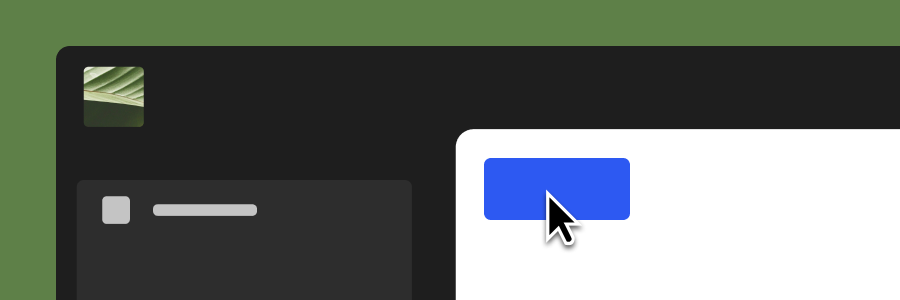
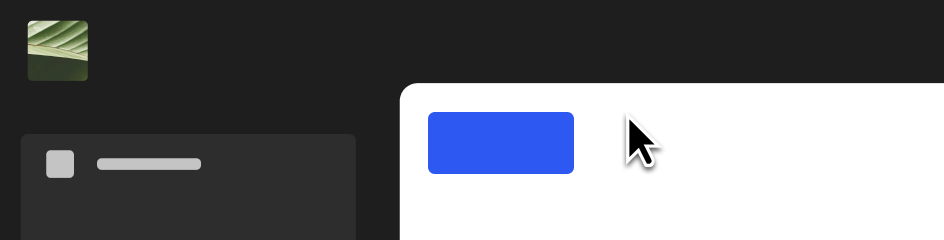
Resize onboarding visuals and make the image area fluid
Swaps in the 472x120 step visuals and makes the image area full-width so
it scales down with the modal on smaller viewports.

diff --git a/src/styles/modals-base.css b/src/styles/modals-base.css
@@ -150,8 +150,8 @@
 
 .prototype-intro-media {
   display: block;
-  width: 450px;
-  height: 150px;
+  width: 100%;
+  height: 120px;
   margin-top: 20px;
   border: 1px solid var(--wp-border-light, #e0e0e0);
   border-radius: 4px;
@@ -183,10 +183,6 @@
   .prototype-intro-modal {
     min-height: 360px;
     padding: 20px;
-  }
-
-  .prototype-intro-media {
-    width: 100%;
   }
 
   .prototype-intro-actions {
